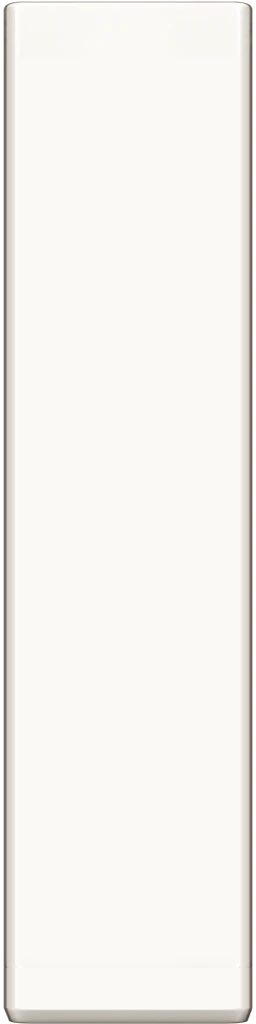
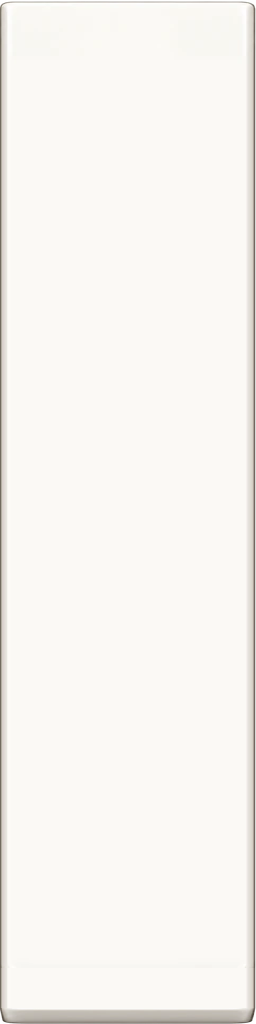
fix(render): narrower gaps between classic keys

Changed region(s): [[0.9375, 0.0, 1.0, 1.0], [0.0, 0.0, 0.0625, 1.0]]

diff --git a/src/render/KeyboardLayer.ts b/src/render/KeyboardLayer.ts
@@ -69,7 +69,7 @@ const KEY_STYLES: Readonly<Record<KeyStyle, StyleSet>> = {
       blackPressed: new URL("./keys/black-pressed.webp", import.meta.url).href,
       blackPressedLit: new URL("./keys/black-pressed-lit.webp", import.meta.url).href
     },
-    white: { leftWidth: 20, topHeight: 60, rightWidth: 20, bottomHeight: 64 },
+    white: { leftWidth: 12, topHeight: 60, rightWidth: 14, bottomHeight: 64 },
     black: { leftWidth: 16, topHeight: 178, rightWidth: 16, bottomHeight: 76 }
   },
   arcade: {
